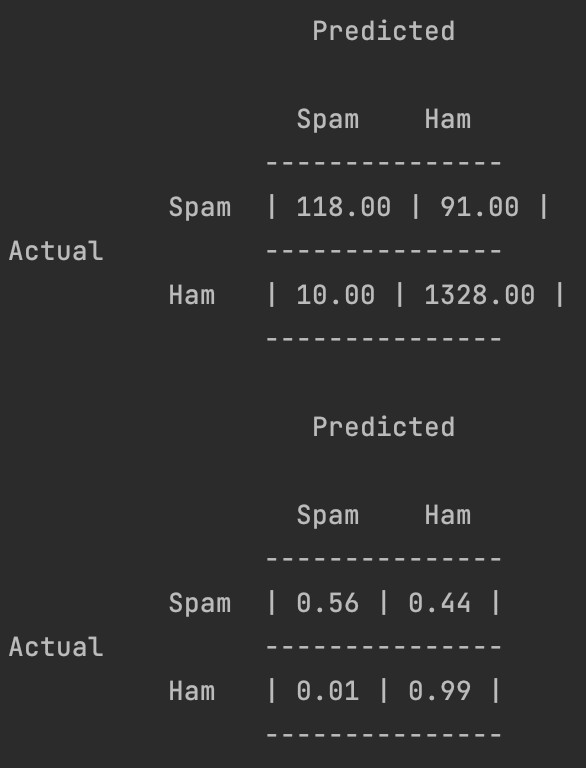
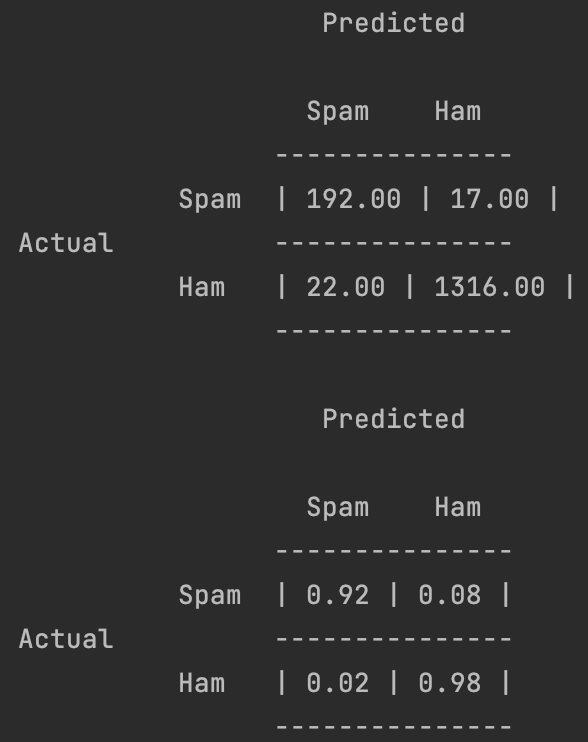
:memo: update documentation

diff --git a/README.md b/README.md
@@ -9,23 +9,22 @@ Multiplikation der Wahrscheinlichkeiten aller Wörter wird die Wahrscheinlichkei
 
 ## Kalibrierung
 
-Ein Threshold von 0.5 hat sich bei allen Experimenten als gut erwiesen.
+Bei den Experimenten lässt sich unschwer erkennen, dass der Spung zwischen den Werten 1 und 0.01 bereits massive
+Verbesserungen mit sich bringt. Jedoch werden mehr als 80 legitime Mails in den Spam-Ordner verschoben. Bei stetigem
+verkleinern des Wertes von &alpha; lässt sich erkennen, dass die Fehlerquote bei Ham-Mails sich drastisch verbessert und
+man auf der Spam-Seite nur leicht mehr Fehler macht. Ab Werten kleiner als 1E-16 lassen sich kaum mehr relevante
+Änderungen an den Klassifikationen erkennen.
 
-Nach einigen Experimenten mit dem Wert &alpha; hat sich herausgestellt, dass Werte kleiner als &alpha; = 0.01 bereits
-gute Resultate liefern.
-
-Wir haben uns jedoch bewusst gegen den Wert 0.01 entschieden da es uns sehr wichtig war so wenige Ham-Emails als Spam zu
-markieren als nur möglich.
-Da man ab Werten kleiner als &alpha; = 1E-8 vor allem an korrekten Spam-Klassifizierungen verliert, haben wir uns für
-diesen Wert
-entschieden.
+Daher haben wir uns für den Wert 1E-16 entschieden.
 
 | &alpha; = 1           | &alpha; = 1E-2           | &alpha; = 1E-4           | &alpha; = 1E-8           | &alpha; = 1E-12           | &alpha; = 1E-16           |
 |-----------------------|--------------------------|--------------------------|--------------------------|---------------------------|---------------------------|
 | ![](docs/alpha_1.png) | ![](docs/alpha_1E-2.png) | ![](docs/alpha_1E-4.png) | ![](docs/alpha_1E-8.png) | ![](docs/alpha_1E-12.png) | ![](docs/alpha_1E-16.png) |
 
+Der Threshold von 0.5 hat sich bei allen Experimenten als gut erwiesen.
+
 ## Klassifizierung
 
-| Threshold  | &alpha;     | Confusion matrix             |
-|------------|-------------|------------------------------|
-| 0.5        | 0.000000001 | ![](docs/classification.png) |
+| Threshold  | &alpha; | Confusion matrix             |
+|------------|---------|------------------------------|
+| 0.5        | 1E-16   | ![](docs/classification.png) |
